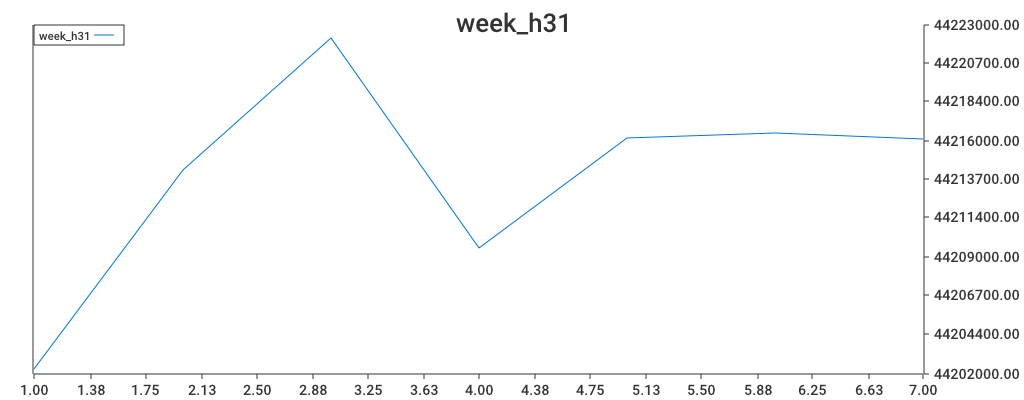
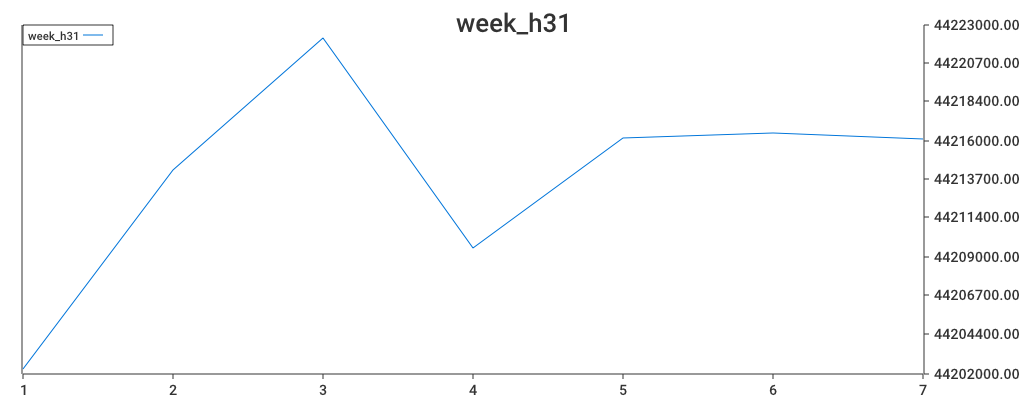
new data added

diff --git a/src/server/server.go b/src/server/server.go
@@ -6,6 +6,7 @@ import (
 	"net/http"
 	"os"
 	"strconv"
+	"strings"
 
 	"github.com/gorilla/mux"
 
@@ -35,6 +36,13 @@ var (
 )
 
 var (
+	h31_ud = make([][]float64, 20)
+	h55_ud = make([][]float64, 20)
+	h80_ud = make([][]float64, 20)
+	h86_ud = make([][]float64, 20)
+)
+
+var (
 	h31_u = make([]float64, 20)
 	h55_u = make([]float64, 20)
 	h80_u = make([]float64, 20)
@@ -50,6 +58,13 @@ func newRouter() *mux.Router {
 }
 
 func main() {
+	for i := 0; i < 20; i++ {
+		h31_ud[i] = make([]float64, 7)
+		h55_ud[i] = make([]float64, 7)
+		h80_ud[i] = make([]float64, 7)
+		h86_ud[i] = make([]float64, 7)
+	}
+
 	r := newRouter()
 	err := http.ListenAndServe(":"+SERVERPORT, r)
 
@@ -58,7 +73,15 @@ func main() {
 	}
 }
 
-func plot(x []float64, h []float64, title string) {
+func plot(x []float64, h []float64, title string, create_folder bool) {
+	var object = make([]chart.Tick, len(h))
+
+	for i := 0; i < len(x); i++ {
+		s := strconv.FormatFloat(x[i], 'g', 2, 64)
+		object[i].Value = x[i]
+		object[i].Label = s
+	}
+
 	graph := chart.Chart{
 		Title: title,
 		Background: chart.Style{
@@ -66,6 +89,9 @@ func plot(x []float64, h []float64, title string) {
 				Top:  20,
 				Left: 20,
 			},
+		},
+		XAxis: chart.XAxis{
+			Ticks: object,
 		},
 		Series: []chart.Series{
 			chart.ContinuousSeries{
@@ -80,7 +106,16 @@ func plot(x []float64, h []float64, title string) {
 		chart.Legend(&graph),
 	}
 
-	f, err_f := os.Create("../images/plot_" + title + ".png")
+	path := ""
+	if !create_folder {
+		path = "../images/plot_" + title + ".png"
+	} else {
+		folder := strings.Split(title, "_")
+		path = "../images/" + folder[0] + "/plot_" + title + ".png"
+	}
+
+	f, err_f := os.Create(path)
+
 	if err_f != nil {
 		fmt.Println(err_f)
 	}
@@ -90,6 +125,12 @@ func plot(x []float64, h []float64, title string) {
 	err := graph.Render(chart.PNG, f)
 	if err != nil {
 		fmt.Println(err)
+	}
+}
+
+func plot_ud(x []float64, h_ud [][]float64, title string) {
+	for i := 0; i < 20; i++ {
+		plot(x, h_ud[i], title+"_u"+strconv.Itoa(i), true)
 	}
 }
 
@@ -107,21 +148,29 @@ func create_plot(w http.ResponseWriter, r *http.Request) {
 
 	switch ch := data.Choice; ch {
 	case "h31":
-		plot(x, h31, "week_h31")
+		plot(x, h31, "week_h31", false)
 	case "h55":
-		plot(x, h55, "week_h55")
+		plot(x, h55, "week_h55", false)
 	case "h80":
-		plot(x, h80, "week_h80")
+		plot(x, h80, "week_h80", false)
 	case "h86":
-		plot(x, h86, "week_h86")
+		plot(x, h86, "week_h86", false)
 	case "h31_u":
-		plot(x_u, h31_u, "user_h31")
+		plot(x_u, h31_u, "user_h31", false)
 	case "h55_u":
-		plot(x_u, h55_u, "user_h55")
+		plot(x_u, h55_u, "user_h55", false)
 	case "h80_u":
-		plot(x_u, h80_u, "user_h80")
+		plot(x_u, h80_u, "user_h80", false)
 	case "h86_u":
-		plot(x_u, h86_u, "user_h86")
+		plot(x_u, h86_u, "user_h86", false)
+	case "h31_ud":
+		plot_ud(x, h31_ud, "h31")
+	case "h55_ud":
+		plot_ud(x, h55_ud, "h55")
+	case "h80_ud":
+		plot_ud(x, h31_ud, "h80")
+	case "h86_ud":
+		plot_ud(x, h31_ud, "h86")
 	default:
 		fmt.Println("Error")
 	}
@@ -140,6 +189,15 @@ func addition_u(data Data, h *[]float64) {
 	(*h)[data.User-1] += data.Speed / float64(20)
 }
 
+func addition_ud(data Data, h *[][]float64) {
+	i, err := strconv.Atoi(data.Day)
+	if err != nil {
+		fmt.Println(err)
+	}
+	fmt.Println(data.User-1, i-1)
+	(*h)[data.User-1][i-1] = data.Speed
+}
+
 func handler(w http.ResponseWriter, r *http.Request) {
 	var data Data
 	err := json.NewDecoder(r.Body).Decode(&data)
@@ -151,22 +209,26 @@ func handler(w http.ResponseWriter, r *http.Request) {
 	case "h31":
 		addition(data, &h31)
 		addition_u(data, &h31_u)
+		addition_ud(data, &h31_ud)
 	case "h55":
 		addition(data, &h55)
 		addition_u(data, &h55_u)
+		addition_ud(data, &h31_ud)
 	case "h80":
 		addition(data, &h80)
 		addition_u(data, &h80_u)
+		addition_ud(data, &h31_ud)
 	case "h86":
 		addition(data, &h86)
 		addition_u(data, &h86_u)
+		addition_ud(data, &h31_ud)
 	default:
 		fmt.Println("Error")
 	}
 
-	fmt.Println("h31", h31)
-	fmt.Println("h55", h55)
-	fmt.Println("h80", h80)
-	fmt.Println("h86", h86)
+	fmt.Println("h31", h31_ud)
+	fmt.Println("h55", h55_ud)
+	fmt.Println("h80", h31_ud)
+	fmt.Println("h86", h31_ud)
 	fmt.Println("u", data.User)
 }
